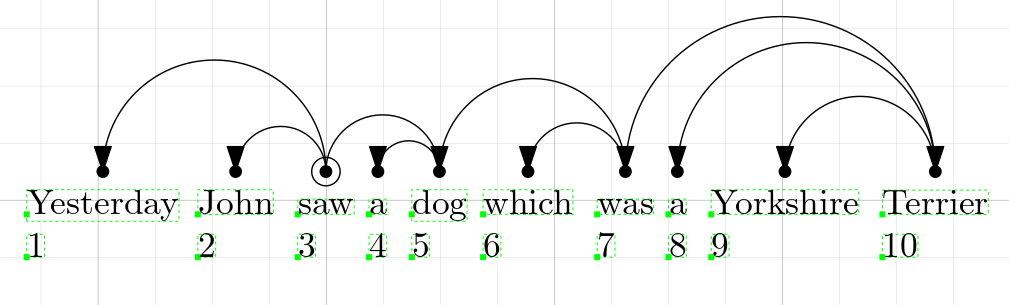
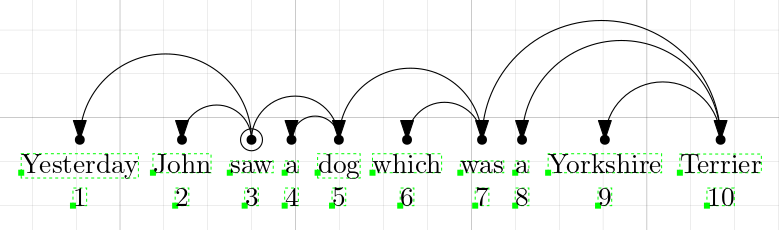
Updated ipelet
Draw position labels in nicer-looking positions

Changed region(s): [[0.0, 0.0304, 1.0, 0.913], [0.7394, 0.7913, 0.801, 0.913]]

diff --git a/README.md b/README.md
@@ -24,6 +24,10 @@ Copy all the `.lua` files into your ipelet directory. In Ubuntu, this is `~/.ipe
 
 ## History of changes
 
+### 19th June 2021
+
+- Place position labels in the same vertical line as the vertices.
+
 ### 12th June 2021
 
 - Added calculation of the number of edge crossings.
